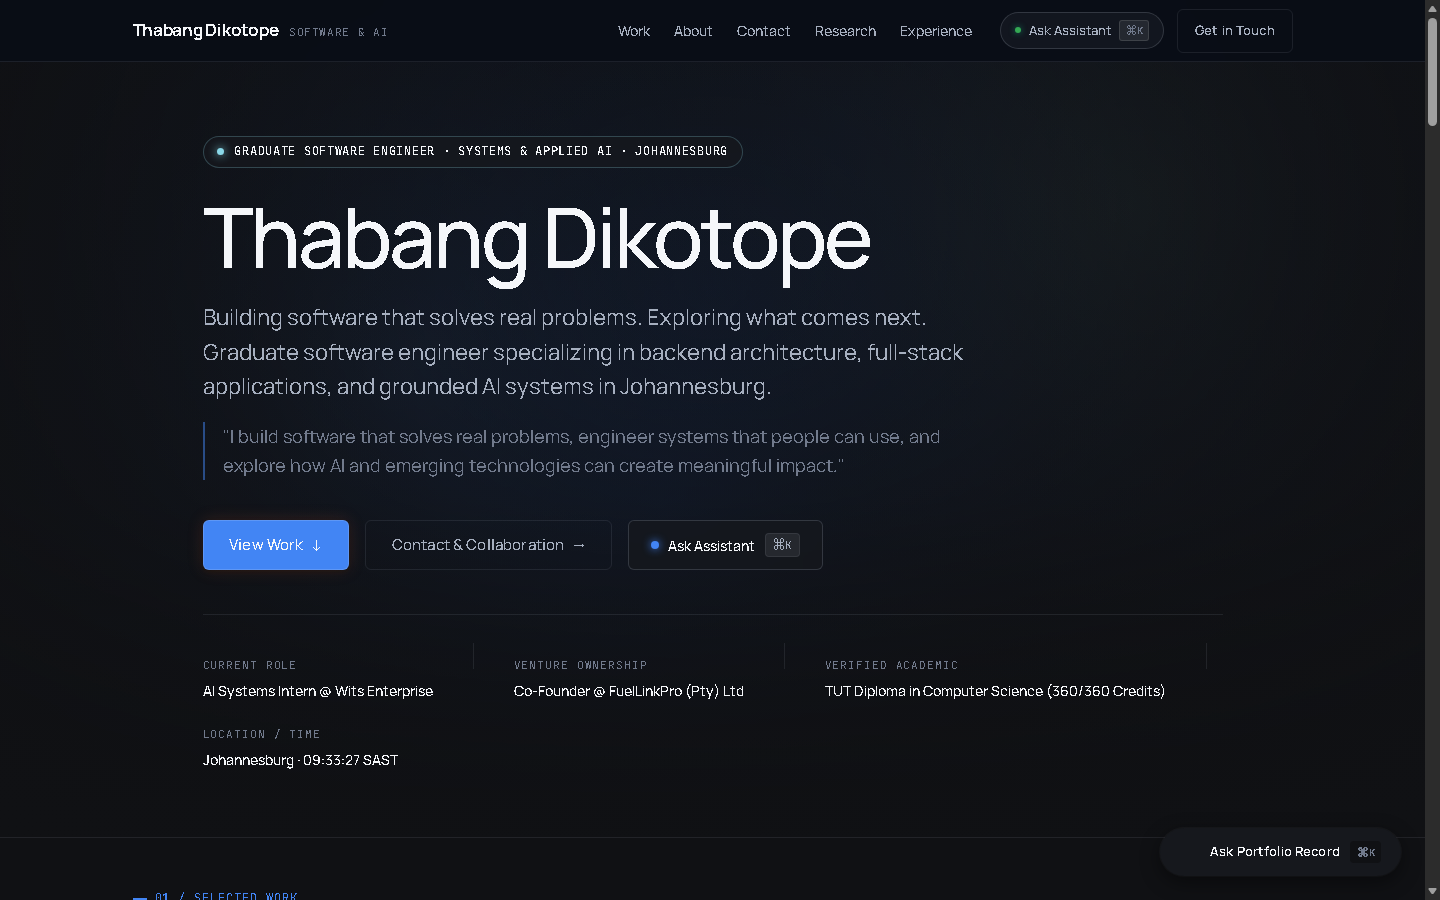
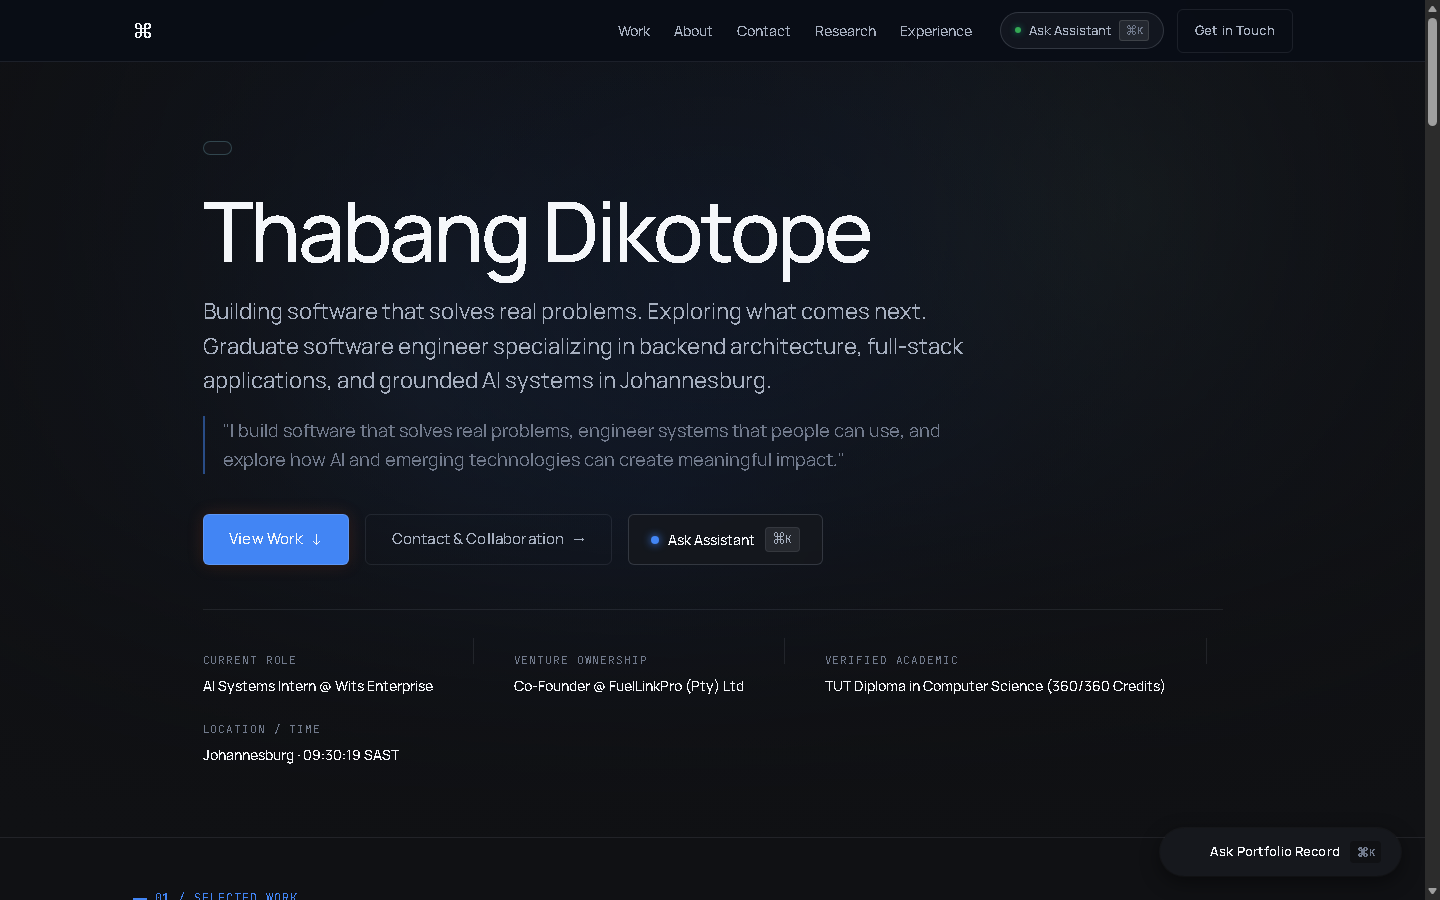
Refactor code structure for improved readability and maintainability

diff --git a/index.html b/index.html
@@ -72,8 +72,7 @@
   <header class="site-header" role="banner">
     <div class="container nav-container">
       <a href="index.html" class="brand-link" aria-label="Thabang Dikotope Home">
-        <span class="brand-name">Thabang Dikotope</span>
-        <span class="brand-title">Software & AI</span>
+        <span class="brand-name">⌘</span>
       </a>
 
       <!-- Desktop Nav -->
@@ -130,8 +129,6 @@
 
       <div class="container hero-deepmind-content">
         <div class="hero-deepmind-status">
-          <span class="status-pulse-cyan" aria-hidden="true"></span>
-          <span class="status-label">Graduate Software Engineer · Systems & Applied AI · Johannesburg</span>
         </div>
 
         <h1 id="heroHeadline" class="hero-deepmind-title">
@@ -205,19 +202,19 @@
             <span class="notion-filter-count">5</span>
           </button>
           <button type="button" class="notion-filter-btn" data-filter="backend">
-            <span>⚡ Backend & Distributed Systems</span>
+            <span>Backend & Distributed Systems</span>
             <span class="notion-filter-count">3</span>
           </button>
           <button type="button" class="notion-filter-btn" data-filter="ai">
-            <span>🧠 Applied AI & ML</span>
+            <span>Applied AI & ML</span>
             <span class="notion-filter-count">3</span>
           </button>
           <button type="button" class="notion-filter-btn" data-filter="data">
-            <span>📊 Data Pipelines</span>
+            <span>Data Pipelines</span>
             <span class="notion-filter-count">1</span>
           </button>
           <button type="button" class="notion-filter-btn" data-filter="logistics">
-            <span>📍 Real-Time Logistics</span>
+            <span>Real-Time Logistics</span>
             <span class="notion-filter-count">2</span>
           </button>
         </div>
@@ -229,7 +226,7 @@
           <article class="editorial-project-card project-feature" data-category="backend logistics" aria-labelledby="titleFuelLink">
             <div class="editorial-card-visual">
               <img 
-                src="assets/images/studio-workstation.jpg" 
+                src="assets/images/projects images/fuellinkpro.png" 
                 alt="FuelLinkPro on-demand logistics dispatch and payment systems architecture" 
                 class="editorial-card-img"
                 loading="lazy"
@@ -293,7 +290,7 @@
           <article class="editorial-project-card project-feature" data-category="ai research" aria-labelledby="titleSkillsMapping">
             <div class="editorial-card-visual">
               <img 
-                src="assets/images/code-matrix-texture.jpg" 
+                src="assets/images/projects images/skillsmappingsystem.png" 
                 alt="Wits Skills Mapping Platform semantic occupational ontology and telemetry interface" 
                 class="editorial-card-img"
                 loading="lazy"
@@ -418,7 +415,7 @@
           <article class="editorial-project-card project-feature" data-category="ai backend" aria-labelledby="titleVerifySA">
             <div class="editorial-card-visual">
               <img 
-                src="assets/images/notion-cover.jpg" 
+                src="assets/images/projects images/verifysa.png" 
                 alt="VerifySA autonomous identity document verification interface and Luhn checksum validation" 
                 class="editorial-card-img"
                 loading="lazy"
@@ -482,7 +479,7 @@
           <article class="editorial-project-card project-feature" data-category="backend logistics" aria-labelledby="titleTUTEvent">
             <div class="editorial-card-visual">
               <img 
-                src="assets/images/bg0.jpg" 
+                src="assets/images/projects images/mytutEvents.png" 
                 alt="TUT Event Management campus ticketing portal and cryptographic QR code validation system" 
                 class="editorial-card-img"
                 loading="lazy"
@@ -581,21 +578,21 @@
 
             <div class="editorial-cred-card">
               <div class="editorial-cred-item">
-                <span class="editorial-cred-icon">🎓</span>
+                <svg class="editorial-cred-icon" width="18" height="18" viewBox="0 0 24 24" fill="none" stroke="currentColor" stroke-width="2" stroke-linecap="round" stroke-linejoin="round" aria-hidden="true"><path d="M22 10v6M2 10l10-5 10 5-10 5z"/><path d="M6 12v5c3 3 9 3 12 0v-5"/></svg>
                 <div>
                   <strong style="color: var(--text-primary); display: block; font-size: 0.85rem;">National Diploma in Computer Science</strong>
                   <span style="color: var(--text-muted); font-size: 0.78rem;">Tshwane University of Technology · 360/360 Credits Verified</span>
                 </div>
               </div>
               <div class="editorial-cred-item">
-                <span class="editorial-cred-icon">☁</span>
+                <svg class="editorial-cred-icon" width="18" height="18" viewBox="0 0 24 24" fill="none" stroke="currentColor" stroke-width="2" stroke-linecap="round" stroke-linejoin="round" aria-hidden="true"><path d="M17.5 19H9a7 7 0 1 1 6.71-9h1.79a4.5 4.5 0 1 1 0 9Z"/></svg>
                 <div>
                   <strong style="color: var(--text-primary); display: block; font-size: 0.85rem;">AWS Certified</strong>
                   <span style="color: var(--text-muted); font-size: 0.78rem;">AWS Cloud Quest: Cloud Practitioner</span>
                 </div>
               </div>
               <div class="editorial-cred-item">
-                <span class="editorial-cred-icon">🏢</span>
+                <svg class="editorial-cred-icon" width="18" height="18" viewBox="0 0 24 24" fill="none" stroke="currentColor" stroke-width="2" stroke-linecap="round" stroke-linejoin="round" aria-hidden="true"><rect x="4" y="2" width="16" height="20" rx="2" ry="2"/><line x1="9" y1="22" x2="9" y2="22.01"/><line x1="15" y1="22" x2="15" y2="22.01"/><line x1="8" y1="6" x2="16" y2="6"/><line x1="8" y1="10" x2="16" y2="10"/><line x1="8" y1="14" x2="16" y2="14"/><line x1="8" y1="18" x2="16" y2="18"/></svg>
                 <div>
                   <strong style="color: var(--text-primary); display: block; font-size: 0.85rem;">Wits Enterprise</strong>
                   <span style="color: var(--text-muted); font-size: 0.78rem;">AI & Software Systems Developer Intern (Future of Learning)</span>
@@ -719,7 +716,9 @@
           <!-- Left Column: Direct Channels Card -->
           <div class="editorial-channel-card">
             <div class="editorial-channel-item">
-              <div class="editorial-channel-icon" aria-hidden="true">✉</div>
+              <div class="editorial-channel-icon" aria-hidden="true">
+                <svg width="18" height="18" viewBox="0 0 24 24" fill="none" stroke="currentColor" stroke-width="2" stroke-linecap="round" stroke-linejoin="round"><rect x="2" y="4" width="20" height="16" rx="2"/><path d="m22 7-8.97 5.7a1.94 1.94 0 0 1-2.06 0L2 7"/></svg>
+              </div>
               <div class="editorial-channel-info">
                 <h4>Direct Email</h4>
                 <div style="display: flex; align-items: center; gap: 0.75rem; flex-wrap: wrap;">
@@ -732,7 +731,9 @@
             </div>
 
             <div class="editorial-channel-item">
-              <div class="editorial-channel-icon" aria-hidden="true">📞</div>
+              <div class="editorial-channel-icon" aria-hidden="true">
+                <svg width="18" height="18" viewBox="0 0 24 24" fill="none" stroke="currentColor" stroke-width="2" stroke-linecap="round" stroke-linejoin="round"><path d="M22 16.92v3a2 2 0 0 1-2.18 2 19.79 19.79 0 0 1-8.63-3.07 19.5 19.5 0 0 1-6-6 19.79 19.79 0 0 1-3.07-8.67A2 2 0 0 1 4.11 2h3a2 2 0 0 1 2 1.72 12.84 12.84 0 0 0 .7 2.81 2 2 0 0 1-.45 2.11L8.09 9.91a16 16 0 0 0 6 6l1.27-1.27a2 2 0 0 1 2.11-.45 12.84 12.84 0 0 0 2.81.7A2 2 0 0 1 22 16.92z"/></svg>
+              </div>
               <div class="editorial-channel-info">
                 <h4>Direct Telephone</h4>
                 <a href="tel:+27795948790">+27 79 594 8790</a>
@@ -740,7 +741,9 @@
             </div>
 
             <div class="editorial-channel-item">
-              <div class="editorial-channel-icon" aria-hidden="true">📍</div>
+              <div class="editorial-channel-icon" aria-hidden="true">
+                <svg width="18" height="18" viewBox="0 0 24 24" fill="none" stroke="currentColor" stroke-width="2" stroke-linecap="round" stroke-linejoin="round"><path d="M20 10c0 6-8 12-8 12s-8-6-8-12a8 8 0 0 1 16 0Z"/><circle cx="12" cy="10" r="3"/></svg>
+              </div>
               <div class="editorial-channel-info">
                 <h4>Primary Location</h4>
                 <span>Johannesburg & Pretoria, Gauteng, South Africa</span>
@@ -748,7 +751,9 @@
             </div>
 
             <div class="editorial-channel-item">
-              <div class="editorial-channel-icon" aria-hidden="true">🕒</div>
+              <div class="editorial-channel-icon" aria-hidden="true">
+                <svg width="18" height="18" viewBox="0 0 24 24" fill="none" stroke="currentColor" stroke-width="2" stroke-linecap="round" stroke-linejoin="round"><circle cx="12" cy="12" r="10"/><polyline points="12 6 12 12 16 14"/></svg>
+              </div>
               <div class="editorial-channel-info">
                 <h4>Local Time</h4>
                 <span class="live-sast-time">--:--:-- SAST (UTC+2)</span>
@@ -756,7 +761,9 @@
             </div>
 
             <div class="editorial-channel-item">
-              <div class="editorial-channel-icon" aria-hidden="true">🔗</div>
+              <div class="editorial-channel-icon" aria-hidden="true">
+                <svg width="18" height="18" viewBox="0 0 24 24" fill="none" stroke="currentColor" stroke-width="2" stroke-linecap="round" stroke-linejoin="round"><path d="M10 13a5 5 0 0 0 7.54.54l3-3a5 5 0 0 0-7.07-7.07l-1.72 1.71"/><path d="M14 11a5 5 0 0 0-7.54-.54l-3 3a5 5 0 0 0 7.07 7.07l1.71-1.71"/></svg>
+              </div>
               <div class="editorial-channel-info">
                 <h4>Professional Networks</h4>
                 <div style="display: flex; gap: 1rem; margin-top: 0.25rem;">

diff --git a/contact/index.html b/contact/index.html
@@ -100,7 +100,9 @@
 
             <div class="contact-info-card">
               <div class="contact-channel">
-                <div class="channel-icon" aria-hidden="true">✉</div>
+                <div class="channel-icon" aria-hidden="true">
+                  <svg width="18" height="18" viewBox="0 0 24 24" fill="none" stroke="currentColor" stroke-width="2" stroke-linecap="round" stroke-linejoin="round"><rect x="2" y="4" width="20" height="16" rx="2"/><path d="m22 7-8.97 5.7a1.94 1.94 0 0 1-2.06 0L2 7"/></svg>
+                </div>
                 <div class="channel-details">
                   <h4>Email Address</h4>
                   <div style="display:flex; align-items:center; justify-content:space-between; gap:0.5rem;">
@@ -111,7 +113,9 @@
               </div>
 
               <div class="contact-channel">
-                <div class="channel-icon" aria-hidden="true">📞</div>
+                <div class="channel-icon" aria-hidden="true">
+                  <svg width="18" height="18" viewBox="0 0 24 24" fill="none" stroke="currentColor" stroke-width="2" stroke-linecap="round" stroke-linejoin="round"><path d="M22 16.92v3a2 2 0 0 1-2.18 2 19.79 19.79 0 0 1-8.63-3.07 19.5 19.5 0 0 1-6-6 19.79 19.79 0 0 1-3.07-8.67A2 2 0 0 1 4.11 2h3a2 2 0 0 1 2 1.72 12.84 12.84 0 0 0 .7 2.81 2 2 0 0 1-.45 2.11L8.09 9.91a16 16 0 0 0 6 6l1.27-1.27a2 2 0 0 1 2.11-.45 12.84 12.84 0 0 0 2.81.7A2 2 0 0 1 22 16.92z"/></svg>
+                </div>
                 <div class="channel-details">
                   <h4>Phone & WhatsApp</h4>
                   <div style="display:flex; align-items:center; gap:1rem; margin-top:0.25rem;">
@@ -122,7 +126,9 @@
               </div>
 
               <div class="contact-channel">
-                <div class="channel-icon" aria-hidden="true">📍</div>
+                <div class="channel-icon" aria-hidden="true">
+                  <svg width="18" height="18" viewBox="0 0 24 24" fill="none" stroke="currentColor" stroke-width="2" stroke-linecap="round" stroke-linejoin="round"><path d="M20 10c0 6-8 12-8 12s-8-6-8-12a8 8 0 0 1 16 0Z"/><circle cx="12" cy="10" r="3"/></svg>
+                </div>
                 <div class="channel-details">
                   <h4>Primary Location</h4>
                   <span>Johannesburg, Gauteng, South Africa</span>
@@ -130,7 +136,9 @@
               </div>
 
               <div class="contact-channel">
-                <div class="channel-icon" aria-hidden="true">💼</div>
+                <div class="channel-icon" aria-hidden="true">
+                  <svg width="18" height="18" viewBox="0 0 24 24" fill="none" stroke="currentColor" stroke-width="2" stroke-linecap="round" stroke-linejoin="round"><rect x="2" y="7" width="20" height="14" rx="2" ry="2"/><path d="M16 21V5a2 2 0 0 0-2-2h-4a2 2 0 0 0-2 2v16"/></svg>
+                </div>
                 <div class="channel-details">
                   <h4>Professional Profiles</h4>
                   <div style="display:flex; gap:1.25rem; margin-top:0.35rem;">

diff --git a/experience/index.html b/experience/index.html
@@ -241,31 +241,6 @@
             </div>
           </article>
 
-          <!-- 6. RocoMamas -->
-          <article class="timeline-entry" id="rocomamas">
-            <div class="timeline-dot"></div>
-            <div class="timeline-content">
-              <h2 class="timeline-role">Waiter / Service Specialist</h2>
-              <p class="timeline-company">RocoMamas Highveld Mall</p>
-              <div class="timeline-meta">
-                <span>September 2024 – February 2025</span>
-                <span>Witbank / eMalahleni, South Africa</span>
-                <span>Customer Operations & Discipline</span>
-              </div>
-              <ul class="timeline-bullets">
-                <li>Delivered attentive customer service in a high-volume, fast-paced commercial restaurant environment, managing up to 50+ clients per shift.</li>
-                <li>Honed critical professional soft skills: proactive verbal communication, rapid problem resolution under pressure, and reliable team coordination.</li>
-                <li>Maintained flawless punctuality and discipline while balancing demanding evening/weekend shifts with full-time university academic coursework.</li>
-              </ul>
-              <div class="tech-tags">
-                <span class="tech-tag">Active Communication</span>
-                <span class="tech-tag">High-Pressure Prioritization</span>
-                <span class="tech-tag">Teamwork</span>
-                <span class="tech-tag">Time Management</span>
-              </div>
-            </div>
-          </article>
-
         </div>
       </div>
     </section>

diff --git a/js/assistant.js b/js/assistant.js
@@ -585,8 +585,7 @@
           "1. <strong>Wits Enterprise (Aug 2026 – Present):</strong> AI & Software Systems Developer Intern (Future of Learning / Darkroom Project) — building skills mapping APIs, Supabase data models, and responsible LLM evaluation boundaries.<br>" +
           "2. <strong>FuelLinkPro (Nov 2025 – Present):</strong> Co-Founder & Software Engineer — sole backend engineer architecting Flask, PostgreSQL, Celery/Redis, PayFast payments, and Docker deployments.<br>" +
           "3. <strong>MTP IT Solutions (Sep 2025 – Feb 2026):</strong> Software Development & IT Support Intern (WIL) — developed web tools, resolved enterprise infrastructure/DNS/SSL incidents, authored support knowledge base docs.<br>" +
-          "4. <strong>Tshwane University of Technology (Jun 2023 – Dec 2024):</strong> Peer Tutor & Lab Instructor — mentored 30+ students per semester in Java, SQL, and Web Computing.<br>" +
-          "5. <strong>RocoMamas Highveld (Sep 2024 – Feb 2025):</strong> Waiter / Service Specialist — balanced demanding high-pressure operational shifts with full-time computer science coursework.",
+          "4. <strong>Tshwane University of Technology (Jun 2023 – Dec 2024):</strong> Peer Tutor & Lab Instructor — mentored 30+ students per semester in Java, SQL, and Web Computing.",
         citations,
         disclaimer: "Curated Knowledge Index · Verified Engineering Record"
       };

diff --git a/api/chat.js b/api/chat.js
@@ -175,8 +175,7 @@ function queryCuratedKnowledge(query) {
         "1. **Wits Enterprise (Aug 2026 – Present):** AI & Software Systems Developer Intern (Future of Learning / Darkroom Project) — building skills mapping APIs, Supabase data models, and responsible LLM evaluation boundaries.\n" +
         "2. **FuelLinkPro (Nov 2025 – Present):** Co-Founder & Software Engineer — sole backend engineer architecting Flask, PostgreSQL, Celery/Redis, PayFast payments, and Docker deployments.\n" +
         "3. **MTP IT Solutions (Sep 2025 – Feb 2026):** Software Development & IT Support Intern (WIL) — developed web tools, resolved enterprise infrastructure/DNS/SSL incidents, authored support knowledge base docs.\n" +
-        "4. **Tshwane University of Technology (Jun 2023 – Dec 2024):** Peer Tutor & Lab Instructor — mentored 30+ students per semester in Java, SQL, and Web Computing.\n" +
-        "5. **RocoMamas Highveld (Sep 2024 – Feb 2025):** Waiter / Service Specialist — balanced demanding high-pressure operational shifts with full-time computer science coursework.",
+        "4. **Tshwane University of Technology (Jun 2023 – Dec 2024):** Peer Tutor & Lab Instructor — mentored 30+ students per semester in Java, SQL, and Web Computing.",
       citations
     };
   }

diff --git a/work/index.html b/work/index.html
@@ -97,19 +97,19 @@
             <span class="notion-filter-count">5</span>
           </button>
           <button type="button" class="notion-filter-btn" data-filter="backend">
-            <span>⚡ Backend & Distributed Systems</span>
+            <span>Backend & Distributed Systems</span>
             <span class="notion-filter-count">3</span>
           </button>
           <button type="button" class="notion-filter-btn" data-filter="ai">
-            <span>🧠 Applied AI & LLMs</span>
+            <span>Applied AI & LLMs</span>
             <span class="notion-filter-count">3</span>
           </button>
           <button type="button" class="notion-filter-btn" data-filter="data">
-            <span>📊 Data Engineering</span>
+            <span>Data Engineering</span>
             <span class="notion-filter-count">1</span>
           </button>
           <button type="button" class="notion-filter-btn" data-filter="logistics">
-            <span>📍 Real-Time Logistics</span>
+            <span>Real-Time Logistics</span>
             <span class="notion-filter-count">2</span>
           </button>
         </div>

diff --git a/about/index.html b/about/index.html
@@ -127,7 +127,8 @@
                   Higher National Diploma in Computer Science
                 </p>
                 <div style="background-color: var(--bg-surface-elevated); padding: 0.45rem 0.85rem; border-radius: var(--radius-xs); border: 1px solid var(--border-medium); font-family: var(--font-mono); font-size: 0.78rem; color: var(--color-moss); display: inline-flex; align-items: center; gap: 0.5rem;">
-                  <span>✓ All 360 / 360 Credits Completed</span>
+                  <svg width="14" height="14" viewBox="0 0 24 24" fill="none" stroke="currentColor" stroke-width="2.5" stroke-linecap="round" stroke-linejoin="round" aria-hidden="true"><polyline points="20 6 9 17 4 12"/></svg>
+                  <span>All 360 / 360 Credits Completed</span>
                 </div>
               </div>
             </div>

diff --git a/scripts/verify-site.js b/scripts/verify-site.js
@@ -139,12 +139,13 @@ htmlPagesToInspect.forEach(relPath => {
     if (link.startsWith('http') || link.startsWith('mailto:') || link.startsWith('tel:') || link.startsWith('#') || link.startsWith('javascript:')) {
       continue;
     }
-    // Clean query parameters and fragments
-    const cleanLink = link.split('?')[0].split('#')[0];
-    if (!cleanLink) continue;
+    // Clean query parameters and fragments, and decode URL encoding (e.g. spaces)
+    const rawLink = link.split('?')[0].split('#')[0];
+    if (!rawLink) continue;
+    const cleanLink = decodeURIComponent(rawLink);
 
     const resolvedPath = path.resolve(dir, cleanLink);
-    assert(fs.existsSync(resolvedPath), `In ${relPath}: target exists -> ${cleanLink}`);
+    assert(fs.existsSync(resolvedPath), `In ${relPath}: target exists -> ${rawLink}`);
   }
 });
 

diff --git a/js/main.js b/js/main.js
@@ -93,7 +93,7 @@ document.addEventListener('DOMContentLoaded', () => {
 
   // 5. Notion Toast Notification Helper
   let toastTimeout = null;
-  function showNotionToast(message, icon = '✓') {
+  function showNotionToast(message, icon = '<svg width="14" height="14" viewBox="0 0 24 24" fill="none" stroke="currentColor" stroke-width="2.5" stroke-linecap="round" stroke-linejoin="round" aria-hidden="true"><polyline points="20 6 9 17 4 12"/></svg>') {
     let toast = document.getElementById('notionToast');
     if (!toast) {
       toast = document.createElement('div');

diff --git a/work/tut-event-management/index.html b/work/tut-event-management/index.html
@@ -64,6 +64,12 @@
 
   <!-- Main Content -->
   <main id="mainContent">
+
+    <!-- NOTION PANORAMIC COVER BANNER -->
+    <div class="notion-cover-container" aria-hidden="true">
+      <img src="../../assets/images/projects images/mytutEvents.png" alt="TUT Event Management Platform Screenshot" class="notion-cover-img" loading="eager" />
+      <div class="notion-cover-gradient"></div>
+    </div>
     <article class="case-study-hero">
       <div class="container">
         <nav class="breadcrumb-nav" aria-label="Breadcrumb">

diff --git a/work/skills-mapping/index.html b/work/skills-mapping/index.html
@@ -67,7 +67,7 @@
 
     <!-- NOTION PANORAMIC COVER BANNER -->
     <div class="notion-cover-container" aria-hidden="true">
-      <img src="../../assets/images/notion-cover.jpg" alt="" class="notion-cover-img" loading="eager" />
+      <img src="../../assets/images/projects images/skillsmappingsystem.png" alt="Wits Skills Mapping Platform Screenshot" class="notion-cover-img" loading="eager" />
       <div class="notion-cover-gradient"></div>
     </div>
     <article class="case-study-hero">

diff --git a/work/fuellinkpro/index.html b/work/fuellinkpro/index.html
@@ -67,7 +67,7 @@
 
     <!-- NOTION PANORAMIC COVER BANNER -->
     <div class="notion-cover-container" aria-hidden="true">
-      <img src="../../assets/images/notion-cover.jpg" alt="" class="notion-cover-img" loading="eager" />
+      <img src="../../assets/images/projects images/fuellinkpro.png" alt="FuelLinkPro Platform Screenshot" class="notion-cover-img" loading="eager" />
       <div class="notion-cover-gradient"></div>
     </div>
     <article class="case-study-hero">
